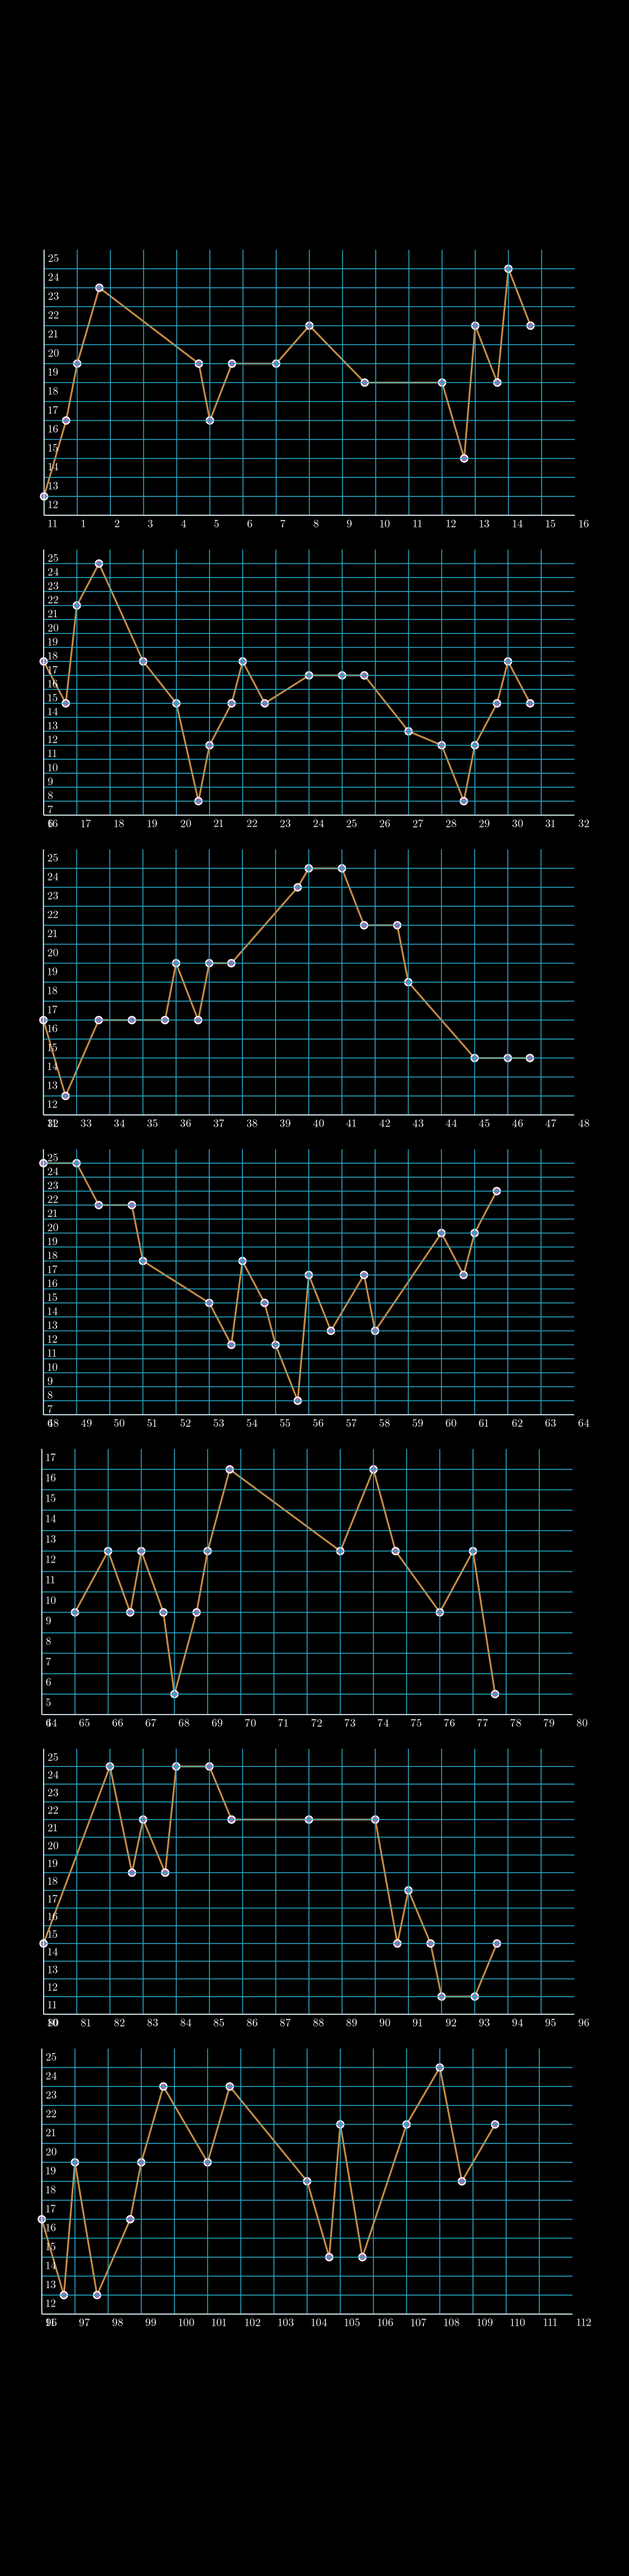
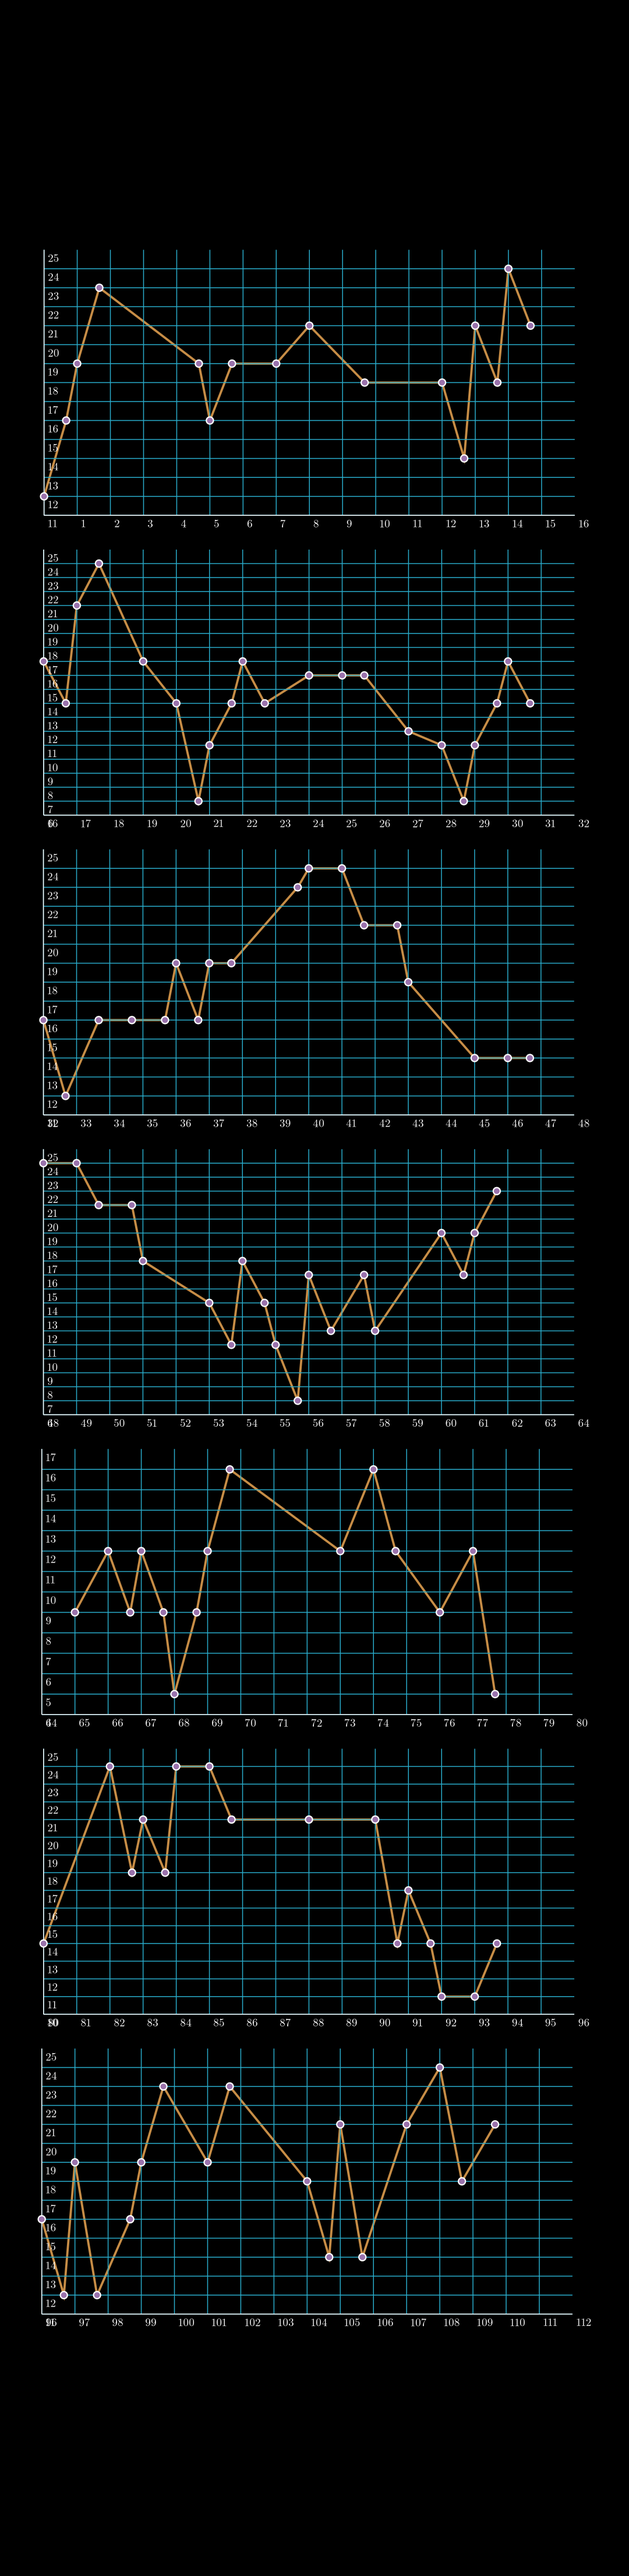
add in basic dots

diff --git a/line_graph.py b/line_graph.py
@@ -21,9 +21,9 @@ def create_line_graph(x_vals, y_vals, x_start, x_end):
         y_values = y_vals,
         line_color=GOLD_E,
         vertex_dot_style=dict(stroke_width=3,  fill_color=PURPLE),
-        stroke_width = 4,
+        stroke_width = 5,
     )
-    return VGroup(line_graph, plane)
+    return VGroup(plane, line_graph)
 
 class LineGraphExample(Scene):
     def construct(self):
